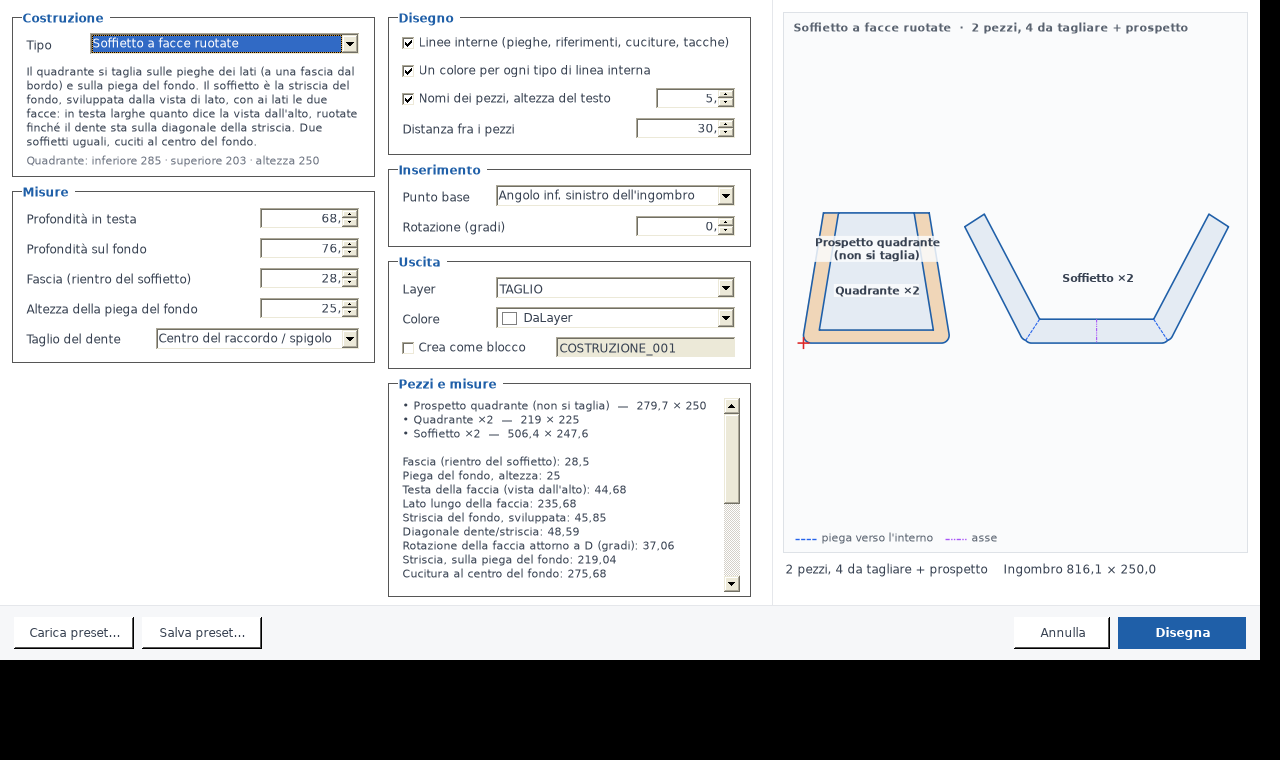
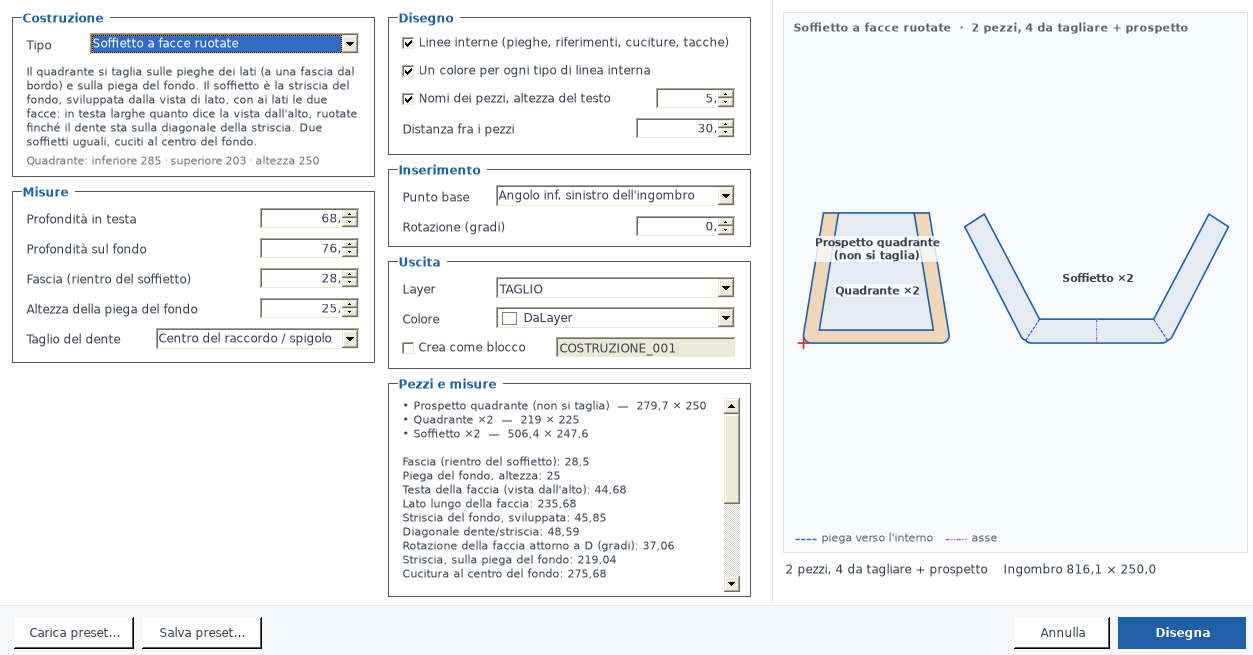
aggiunta foto

diff --git a/INSTALLAZIONE/index.html b/INSTALLAZIONE/index.html
@@ -803,7 +803,7 @@ footer p{color:var(--muted);font-size:.88rem}
   var mq = document.getElementById('marquee');
   if(mq){
     var EXT = /\.(jpe?g|png|webp|gif|bmp)$/i;
-    var fallback = ['materiali.png','nome-pezzo.png','gmats.png','gnames.png','sostmat.png','mat1.png','nog-config.png','licenza.png','poliauto.png','tacche.png']
+    var fallback = ['materiali.png','nome-pezzo.png','gmats.png','gnames.png','sostmat.png','mat1.png','nog-config.png','DQC_soffietto_facce_ruotate.png','DQT_altri_tipi.png','poliauto.png','tacche.png']
       .map(function(n){ return 'galleria/' + n; });
 
     function render(list){
